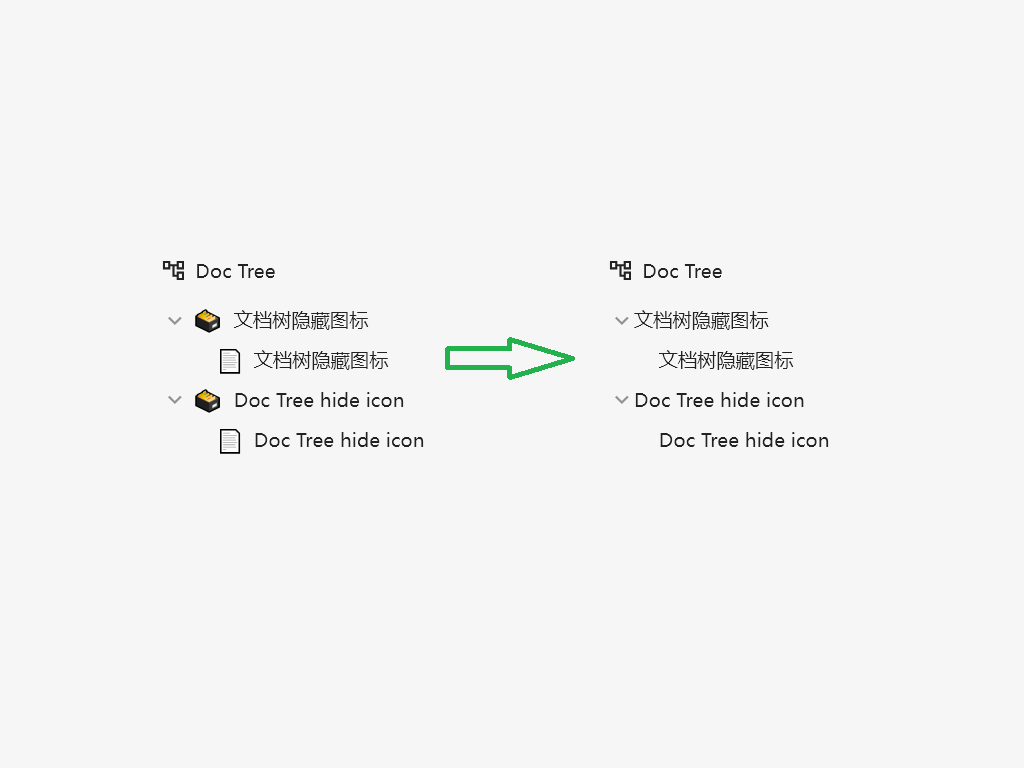
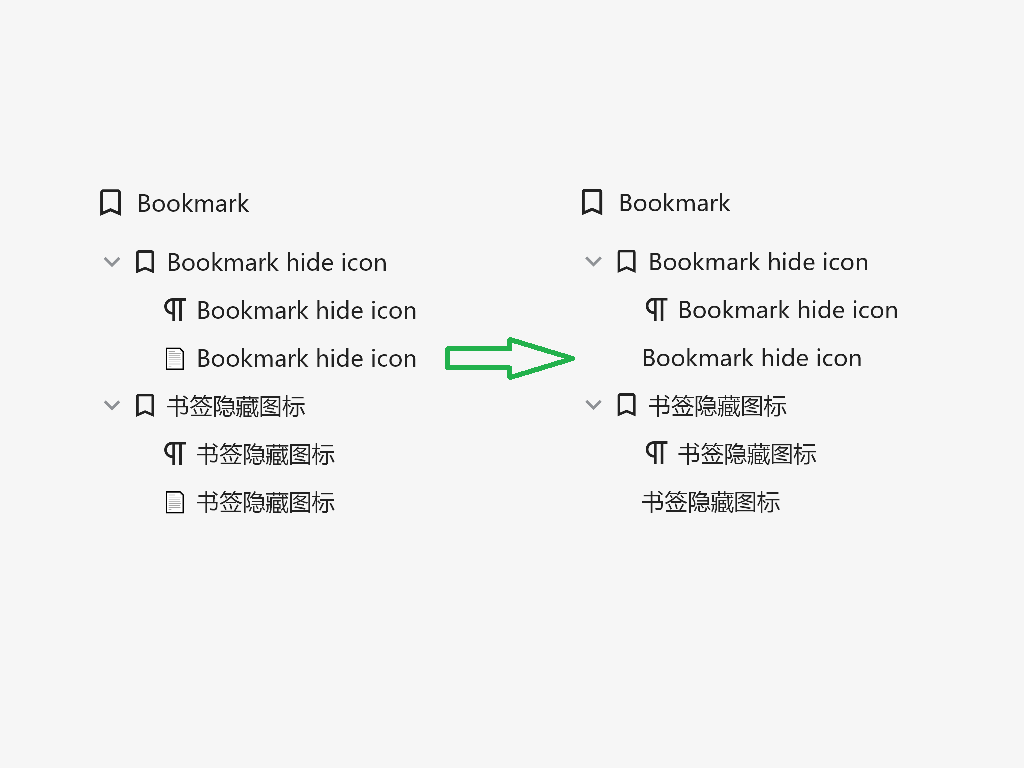
发布

diff --git a/index.css b/index.css
@@ -1,4 +1,4 @@
-/* 在文档树中隐藏文档前的图标 CSS片段 https://github.com/TCOTC/siyuan-css-hide-doc-tree-icon */
-.b3-list-item__icon {
-    display: none ;
-   }
+/* 在书签中隐藏书签前的图标 CSS片段 https://github.com/TCOTC/siyuan-css-hide-bookmark-icon */
+span.b3-list-item__graphic {
+	display: none;
+}

diff --git a/README.md b/README.md
@@ -1,12 +1,12 @@
-[中文](https://github.com/TCOTC/siyuan-css-hide-doc-tree-icon/blob/main/README_zh_CN.md)
+[中文](https://github.com/TCOTC/siyuan-css-hide-bookmark-icon/blob/main/README_zh_CN.md)
 
-# SiYuan Doc Tree hide icon plugin
+# SiYuan Bookmark hide icon plugin
 
 ### CSS
 
 ```
-/* Hide the icon in front of the document in the document tree CSS https://github.com/TCOTC/siyuan-css-hide-doc-tree-icon */
-.b3-list-item__icon {
-    display: none ;
-   }
+/* Hide the icon in front of the bookmark in the bookmark CSS https://github.com/TCOTC/siyuan-css-hide-bookmark-icon */
+span.b3-list-item__graphic {
+	display: none;
+}
 ```

diff --git a/README_zh_CN.md b/README_zh_CN.md
@@ -1,12 +1,12 @@
-[English](https://github.com/TCOTC/siyuan-css-hide-doc-tree-icon/blob/main/README.md)
+[English](https://github.com/TCOTC/siyuan-css-hide-bookmark-icon/blob/main/README.md)
 
-# 思源笔记 文档树隐藏图标 插件
+# 思源笔记 书签隐藏图标 插件
 
 ### CSS
 
 ```
-/* 在文档树中隐藏文档前的图标 CSS片段 https://github.com/TCOTC/siyuan-css-hide-doc-tree-icon */
-.b3-list-item__icon {
-    display: none ;
-   }
+/* 在书签中隐藏书签前的图标 CSS片段 https://github.com/TCOTC/siyuan-css-hide-bookmark-icon */
+span.b3-list-item__graphic {
+	display: none;
+}
 ```
